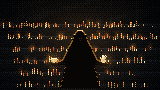
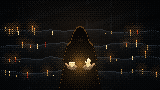
Zwischenstand: Ereignisbilder Akt II–V in Arbeit
Claude-Session: https://claude.ai/code/session_01TghvEfjLh3w7y1uAeKR46M

diff --git a/tools/ereignisse/bilder/grotte.js b/tools/ereignisse/bilder/grotte.js
@@ -282,36 +282,53 @@ module.exports = {
     // Eine alte Frau zwischen tausend Kerzen, die Hände offen, in jeder etwas aus Wachs.
     grotte_tausch(K) {
       const { B } = K;
-      fels(K, .2, {});
-      // Stufen aus Fels, auf jeder Reihen von Kerzen
-      const stufen = [24, 36, 48, 60, 72, 84];
-      stufen.forEach((y, i) => { K.feld(0, y, 160, y + 12, SCH.slice(1, 7), (x, yy) => .3 + (yy === y ? .4 : 0) - (yy - y) / 40 + (B.hash(x >> 2, yy, i) - .5) * .2); });
-      // Die Frau: sitzt auf der untersten Stufe, Kopftuch, Schultertuch, die Hände offen nach vorn
-      const fm = K.maske(), fx = 80;
-      fm.poly([[fx - 9, 44], [fx + 9, 44], [fx + 16, 70], [fx + 20, 88], [fx - 20, 88], [fx - 16, 70]]);
-      fm.ell(fx, 46, 11, 5);
-      fm.ell(fx, 36, 5.5, 6.5); fm.poly([[fx - 6.5, 34], [fx + 6.5, 34], [fx + 11, 50], [fx - 11, 50]]);
-      fm.kap(fx - 9, 48, fx - 16, 62, 3, 2.6); fm.kap(fx - 16, 62, fx - 24, 64, 2.6, 2.2);
-      fm.kap(fx + 9, 48, fx + 16, 62, 3, 2.6); fm.kap(fx + 16, 62, fx + 24, 64, 2.6, 2.2);
-      fm.ell(fx - 26, 64, 3.4, 1.8); fm.ell(fx + 26, 64, 3.4, 1.8);
-      // Kerzen ringsum: viele kleine Flammen, hinter und neben ihr
-      const alle = [];
-      stufen.forEach((y, i) => {
-        alle.push(...kerzenBand(K, 2, 158, x => y + 1 + Math.round(B.rausch1(x * .3, i) * 2), { abstand: 1.7 + i * .25, luecke: .3, rot: .12, hMin: 1, hMax: 2 + (i > 2 ? 2 : 1), an: .65, seed: i, hof: 0, ohne: x => fm.has(x, y - 2) || fm.has(x, y) || Math.abs(x - 80) > 70 - i * 2 + B.hash(x, i, 3) * 10 }));
+      fels(K, .22, {});
+      // Felsstufen, unregelmäßig gebrochen
+      const kanten = [30, 44, 58, 72];
+      kanten.forEach((y0, i) => {
+        const kf = x => y0 + Math.round(B.rausch1(x * .08, i + 3) * 4 - 2);
+        K.feld(0, y0 - 3, 160, y0 + 14, SCH.slice(1, 8), (x, y) => y < kf(x) ? -1 : .32 + (y === kf(x) ? .45 : 0) - (y - kf(x)) / 30 + (B.hash(x >> 2, y, i) - .5) * .2);
       });
-      K.licht(fx, 40, 90, '#2a1a0a', .8, { ohne: fm });
-      for (const [x, y, h, , an] of alle) if (an && B.hash(x, y, 9) < .3) K.licht(x, y - h - 1, 5, FL.glut, .6, { ohne: fm });
+      // Die Kerzenfrau: sitzt auf der untersten Stufe, Kopftuch, Schultertuch
+      const fm = K.maske(), fx = 80;
+      fm.poly([[fx - 10, 42], [fx + 10, 42], [fx + 17, 68], [fx + 22, 90], [fx - 22, 90], [fx - 17, 68]]);
+      fm.ell(fx, 44, 12, 5);
+      fm.ell(fx, 33, 6, 7); fm.poly([[fx - 7, 31], [fx + 7, 31], [fx + 12, 48], [fx - 12, 48]]);
+      // Arme angewinkelt, die Unterarme nach vorn zum Schoß
+      fm.kap(fx - 11, 47, fx - 15, 60, 3.2, 2.8); fm.kap(fx - 15, 60, fx - 9, 66, 2.8, 2.4);
+      fm.kap(fx + 11, 47, fx + 15, 60, 3.2, 2.8); fm.kap(fx + 15, 60, fx + 9, 66, 2.8, 2.4);
+      // Kerzen: verstreut, ungleich hoch, viele erloschen, keine Reihen
+      const tr = B.rng(91), L = [];
+      for (let n = 0; n < 70 && L.length < 44; n++) {
+        const st = tr.i(0, 3), x = Math.round(tr.f(4, 156)), y = kanten[st] + Math.round(B.rausch1(x * .08, st + 3) * 4 - 2) + 1 + tr.i(0, 3);
+        if (Math.abs(x - fx) < 24 && y > 26) continue;
+        if (L.some(([a, b]) => Math.abs(a - x) < 3 && Math.abs(b - y) < 3)) continue;
+        L.push([x, y, tr.i(1, 5), tr() < .12 ? 1 : tr() < .3 ? 2 : 0, tr() < .55]);
+      }
+      kerzen(K, L, { hof: 9, staerke: .5 });
+      K.licht(fx, 30, 80, '#1e1208', .7, { ohne: fm });
       K.form(fm, 0, { k: ['#030202', '#080605', '#0e0b09', '#16110d'], ton: 1, fase: 0, rand: 0 });
-      K.kante(fm, fx, 20, 70, ['#8a5a20', '#ffd27a'], { nah: .35, min: -.2 });
-      // Gesicht: ein Rest Licht unter dem Tuch
-      K.set(fx - 1, 38, '#3a2a1a'); K.set(fx + 1, 38, '#3a2a1a'); K.set(fx, 40, '#2a1e14');
-      // In jeder Hand etwas aus Wachs: links ein Herz, rechts eine kleine Hand
-      K.licht(fx - 26, 60, 12, '#4a3012', .9); K.licht(fx + 26, 60, 12, '#4a3012', .9);
-      const herz = K.maske(); herz.ell(fx - 27.5, 59.5, 2, 1.9); herz.ell(fx - 24.5, 59.5, 2, 1.9); herz.poly([[fx - 29.5, 60], [fx - 22.5, 60], [fx - 26, 64]]);
-      K.form(herz, 0, { k: WACHS.slice(4, 9), r: [WACHS[8]], ton: 2.6, fase: 0, rand: 1, L: [0, -1] });
-      const hd = K.maske(); handMaske(hd, fx + 23, 63, -Math.PI / 2 + .2, .75, { spreiz: .25 });
-      K.form(hd, 0, { k: WACHS.slice(4, 9), r: [WACHS[8]], ton: 2.6, fase: 0, rand: 1, L: [0, -1] });
-      K.vignette(.65, { cx: 80, cy: 50, farbe: SCH[0] });
+      K.kante(fm, fx, 0, 90, ['#5a3a18', '#a07034'], { nah: .2, min: .2 });
+      // Die offenen Hände im Schoß, in jeder etwas aus Wachs: die helle Stelle
+      K.licht(fx, 64, 30, '#4a3012', .95);
+      K.licht(fx, 64, 14, '#5a3c16', .8);
+      const HAUT = ['#2a1e16', '#4e3a28', '#7a5e40', '#a07e58'];
+      const haende = K.maske();
+      for (const sx of [-1, 1]) {
+        const hx = fx + sx * 8, hy = 67;
+        haende.ell(hx, hy, 5, 2.4);
+        for (let f = 0; f < 4; f++) haende.ell(hx - sx * 1 + sx * (f * 1.6 - 2.4) * -1, hy + 2.2, .9, 1);
+        haende.kap(hx + sx * 4, hy - 1, hx + sx * 6, hy - 3, 1, .8);   // Daumen
+      }
+      K.form(haende, 0, { k: HAUT, r: ['#c89a6a', '#f0d0a0'], ton: 2.4, fase: 1, rand: 1, L: [0, -1] });
+      const herz = K.maske(); herz.ell(fx - 9.4, 63.6, 1.9, 1.8); herz.ell(fx - 6.6, 63.6, 1.9, 1.8); herz.poly([[fx - 11.3, 64], [fx - 4.7, 64], [fx - 8, 67.5]]);
+      K.form(herz, 0, { k: WACHS.slice(4, 9), r: [WACHS[8], '#ffffff'], ton: 2.8, fase: 0, rand: 1, L: [0, -1] });
+      const hd = K.maske(); handMaske(hd, fx + 8, 66.5, -Math.PI / 2 + .15, .7, { spreiz: .25 });
+      K.form(hd, 0, { k: WACHS.slice(4, 9), r: [WACHS[8], '#ffffff'], ton: 2.8, fase: 0, rand: 1, L: [0, -1] });
+      K.kante(fm, fx, 66, 22, ['#6a4a20', '#d8a868'], { nah: .5, min: .1 });
+      // Gesicht unter dem Tuch: nur ein Rest Licht von unten
+      K.set(fx - 2, 36, '#2a1e14'); K.set(fx + 2, 36, '#2a1e14'); K.set(fx, 38, '#24180f'); K.linie(fx - 2, 40, fx + 2, 40, '#20160e');
+      K.vignette(.6, { cx: 80, cy: 54, farbe: SCH[0] });
     },
   },
 };

diff --git a/tools/ereignisse/bilder/ufer.js b/tools/ereignisse/bilder/ufer.js
@@ -120,11 +120,11 @@ module.exports = {
     ufer_flaschenpost(K) {
       const { B } = K;
       const hy = 46;
-      meerDecke(K, hy, { lx: 84, haenge: (x, i) => i === 0 ? Math.max(0, 1 - Math.abs(x - 82) / 16) ** 2 * 10 : 0 });
+      meerDecke(K, hy, { lx: 84 });
       sand(K, hy, { lx: 84 });
       K.lichtquelle(84, 30);
       // Die Flasche: kopfüber, der Hals im Sand, ein Zettel darin
-      const fx = 80, fy = 78;
+      const fx = 80, fy = 85;
       K.licht(fx, fy - 10, 26, MORGEN_G, 1);
       const fl = K.maske(); fl.kap(fx, fy, fx, fy - 6, 1.6, 1.8); fl.kap(fx, fy - 7, fx, fy - 10, 2, 4.4); fl.kap(fx, fy - 10, fx, fy - 24, 4.6, 4.6); fl.ell(fx, fy - 25, 4.4, 1.4);
       K.form(fl, 0, { k: ['#041008', '#0a2414', '#14402a', '#246040', '#3e8a5a'], r: ['#7ab48a', '#e0f8e0'], ton: 2.2, vx: -.8, fase: 0, rand: 2, L: [-.5, -.9] });
@@ -133,12 +133,16 @@ module.exports = {
       // Sand um den Hals aufgeworfen
       const hg = K.maske(); hg.ell(fx, fy + 1, 6, 1.8); K.form(hg, 0, { k: SAND.slice(2, 7), r: SANDRAND, ton: 2.2, fase: 0, rand: 1, L: [0, -1] });
       // Der Tropfen über der Flasche: zieht sich nach oben zur Decke zurück, ein Faden
-      const ty = 50;
-      const tr = K.maske(); tr.ell(fx, ty, 2.4, 3); tr.kap(fx, ty - 2, fx, hy - 8, 1.2, .5);
-      K.licht(fx, ty, 12, '#1c3238', 1);
-      K.form(tr, 0, { k: WASSER.slice(4, 10), r: [SEE, SCHAUM[1]], ton: 3, fase: 0, rand: 1, L: [-.5, -.9] });
-      K.set(fx - 1, ty - 1, '#ffffff');
-      for (const [x, y] of [[fx + 1, ty + 6], [fx - 1, ty + 9]]) K.set(x, y, SEE);
+      const ty = 38;
+      // ein Zapfen Wasser von der Decke, an dem der Tropfen hängt
+      const za = K.maske(); za.fn(fx - 12, 0, fx + 12, ty, (x, y) => Math.abs(x - fx) < Math.max(.8, (1 - (y - 6) / (ty - 6)) * 10) && y > 4);
+      K.feld(0, 0, 160, 90, WASSER, (x, y) => za.has(x, y) ? .45 + (y / ty) * .35 - Math.abs(x - fx) / 30 : -1);
+      const tr = K.maske(); tr.ell(fx, ty + 6, 3.2, 4); tr.kap(fx, ty + 3, fx, ty - 2, 1.6, .8);
+      K.licht(fx, ty + 6, 14, '#1c3238', 1);
+      K.form(tr, 0, { k: WASSER.slice(4, 10), r: [SEE, SCHAUM[1]], ton: 2.6, verlauf: -1, fase: 0, rand: 2, L: [-.5, -.9] });
+      K.set(fx - 1, ty + 4, '#ffffff'); K.set(fx - 2, ty + 5, SCHAUM[1]);
+      // Spur, wo er herunterfiel: ein paar Perlen, die mit hinaufgezogen werden
+      for (const [x, y] of [[fx + 1, ty + 13], [fx, ty + 17], [fx - 1, ty + 21]]) { K.set(x, y, SEE); K.set(x, y - 1, WASSER[6]); }
       K.vignette(.75, { cx: 80, cy: 50 });
     },
   },
